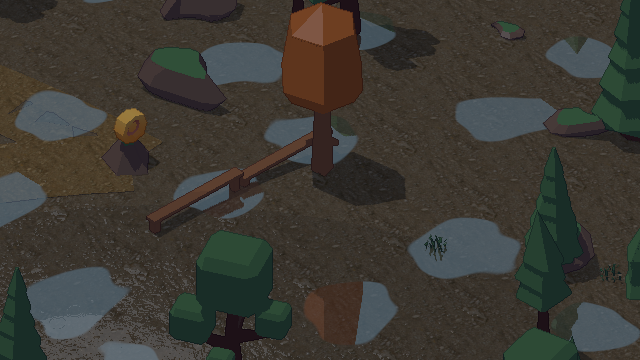
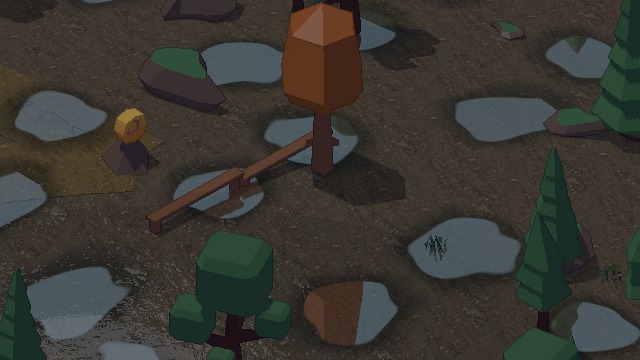
Blend puddles into damp soil with soft moisture halos and drying transitions

diff --git a/Assets/Editor/WetSoilVerification.cs b/Assets/Editor/WetSoilVerification.cs
@@ -1,0 +1,34 @@
+using System;
+using System.IO;
+using System.Linq;
+using UnityEditor;
+using UnityEditor.SceneManagement;
+using UnityEngine;
+namespace PixelArtLab.Editor
+{
+    public static class WetSoilVerification
+    {
+        static Color32[] Render(Camera camera)
+        {
+            camera.Render();var old=RenderTexture.active;RenderTexture.active=camera.targetTexture;var t=new Texture2D(640,360,TextureFormat.RGB24,false);t.ReadPixels(new Rect(0,0,640,360),0,0);t.Apply();var data=t.GetPixels32();UnityEngine.Object.DestroyImmediate(t);RenderTexture.active=old;return data;
+        }
+        static int Difference(Color32[] a,Color32[] b)=>a.Zip(b,(x,y)=>Mathf.Abs(x.r-y.r)+Mathf.Abs(x.g-y.g)+Mathf.Abs(x.b-y.b)>8?1:0).Sum();
+        static float Bright(Color32 c)=>c.r*.2126f+c.g*.7152f+c.b*.0722f;
+        static void Require(bool c,string message){if(!c)throw new Exception(message);}
+        public static void Run()
+        {
+            EditorSceneManager.OpenScene(DetailedWoodlandBuilder.ScenePath);var env=UnityEngine.Object.FindFirstObjectByType<WorldEnvironment>();env.runClock=false;env.windEnabled=false;env.hour=13;env.animationTime=2;env.SetWeather(ValleyWeather.Rain,true);
+            Require(!ShaderUtil.GetShaderMessages(Shader.Find("PixelArtLab/Sprite Toon")).Any(m=>m.severity==UnityEditor.Rendering.ShaderCompilerMessageSeverity.Error),"Wet soil shader error");
+            var camera=env.worldCamera;camera.aspect=640f/360;camera.orthographicSize=6;camera.transform.position=new Vector3(-2,1,0)-camera.transform.forward*45;
+            var target=new RenderTexture(640,360,24);target.Create();camera.targetTexture=target;
+            var reflection=GameObject.Find("Walkable hills and connected trails").GetComponent<DetailWaterReflection>();var materials=new[]{reflection.waterMaterial,reflection.additionalMaterials[0]};
+            Action<float> set=value=>{foreach(var m in materials)m.SetFloat("_PuddleWetStrength",value);};
+            reflection.Refresh();set(0);var before=Render(camera);OpenWorldSceneBuilder.Capture(camera,"Previews/45-Puddle-Without-Damp-Soil.png");set(1);var after=Render(camera);OpenWorldSceneBuilder.Capture(camera,"Previews/46-Puddle-Damp-Soil.png");
+            int changed=Difference(before,after),darker=before.Zip(after,(a,b)=>Bright(a)-Bright(b)>5?1:0).Sum();Require(changed>2000&&darker>1500,"Damp shore not visibly darker");
+            env.weather=ValleyWeather.Clear;env.rain=0;env.wetness=.15f;env.Apply();set(0);var residualOff=Render(camera);set(1);int residual=Difference(residualOff,Render(camera));Require(residual>1000,$"Damp soil disappears with shallow water: {residual}");OpenWorldSceneBuilder.Capture(camera,"Previews/47-Drying-Damp-Soil.png");
+            env.wetness=0;env.Apply();set(0);var dry=Render(camera);set(1);Require(Difference(dry,Render(camera))==0,"Dry ground remains stained");
+            env.SetWeather(ValleyWeather.Snow,true);set(0);var snow=Render(camera);set(1);Require(Difference(snow,Render(camera))==0,"Dampness stains covered snow");
+            foreach(var m in materials)EditorUtility.SetDirty(m);AssetDatabase.SaveAssets();File.WriteAllText("Previews/Wet-Soil-Verification.txt",$"WET_SOIL_SUCCESS\nWet shore pixels: {changed}; darker soil pixels: {darker}\nResidual damp soil pixels after shallow water dries: {residual}\nDry ground unchanged: PASS\nSnow coverage hides wet stain: PASS\nNO PLAYER BUILD\n");camera.targetTexture=null;target.Release();UnityEngine.Object.DestroyImmediate(target);Debug.Log("WET_SOIL_SUCCESS");
+        }
+    }
+}

diff --git a/Docs/Semi-Real-Woodland.md b/Docs/Semi-Real-Woodland.md
@@ -29,6 +29,8 @@ source-files.json은 공개 API의 다운로드 출처 기록이다.
 - 낮·밤, 횃불, 바람, 비와 눈의 젖음·적설을 새 재질에도 적용한다.
 - 비가 오면 맵 전역의 완만한 지면·흙길에 불규칙한 물웅덩이가 커진다. 캐릭터·나무·텐트를 실제로 뒤집어 렌더링한 별도 평면 반사와 빗방울 동심원으로 표현한다. Toon에서도 반사는 유지된다.
 - 2로 비를 켜고 몇 초 기다리면 생성된다. 1로 맑게 바꾸면 남은 물기가 서서히 마른다. 눈이 쌓이면 웅덩이를 숨긴다. C로 호수와 웅덩이의 반사를 함께 비교한다.
+- 물웅덩이 바깥에도 젖은 흙이 부드럽게 퍼진다. 같은 분포 마스크를 확장해 가장자리 모양을 맞추며, 인접 셀의 습기를 합쳐 직선 경계가 생기지 않게 한다. 젖은 흙은 더 짙고, 표면 거칠기와 미세 요철이 줄어 약하게 윤이 난다. 반사는 물 표면보다 훨씬 약하게 적용한다.
+- 습기는 물이 고이기 전부터 나타나고, 물이 줄어든 뒤에도 한동안 남았다가 기존 wetness 값에 따라 마른다. 적설로 덮이면 숨긴다. ForestGround·ForestTrail 재질의 `Damp soil around puddles` 값(기본 1)을 0으로 낮추면 기존 모습과 비교할 수 있다. 웅덩이 자체와 발 파문 판정은 유지한다.
 
 초기 버전의 높이 1.1m 제한은 제거했다. 이 제한이 같은 높이의 등고선을 따라 띠 모양으로 물웅덩이를 만들던 원인이었다. 현재는 맵 전체의 완만한 지면에 6m 셀별로 중심·크기·모양을 달리 배치한다. 급경사와 호수 아래 지면은 제외하며, 같은 맵에서는 위치가 유지된다. `PuddleMask.cginc`와 `PuddleSurface.cs`가 같은 정수 해시와 마스크 수식을 사용해 보이는 물과 발 판정을 맞춘다.
 
@@ -78,5 +80,6 @@ source-files.json은 공개 API의 다운로드 출처 기록이다.
 - 발 상호작용 Play 검증: `PixelArtLab.Editor.PuddleWorldVerification.Play`.
 - 반사 좌표·캐릭터 반사·나무/캐릭터/횃불 그림자 검증: `PixelArtLab.Editor.ReflectionShadowVerification.Run`.
 - 낮은 꽃·고도별 반사·시간대별 눈 그림자 검증: `PixelArtLab.Editor.TerrainReflectionVerification.Run`.
+- 젖은 가장자리·잔류 습기·건조·적설 검증: `PixelArtLab.Editor.WetSoilVerification.Run`.
 - 적설 임계값·실제 걷기·자국 소멸·화면 카메라 검증: `PixelArtLab.Editor.SnowFootprintVerification.Play`.
 - 실행 파일은 빌드하지 않았다.
